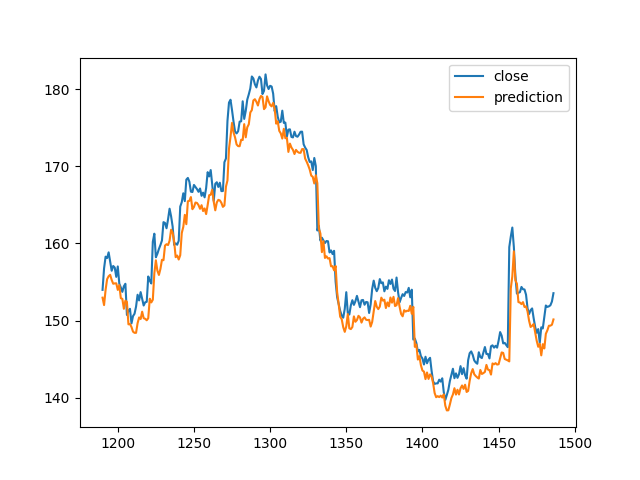
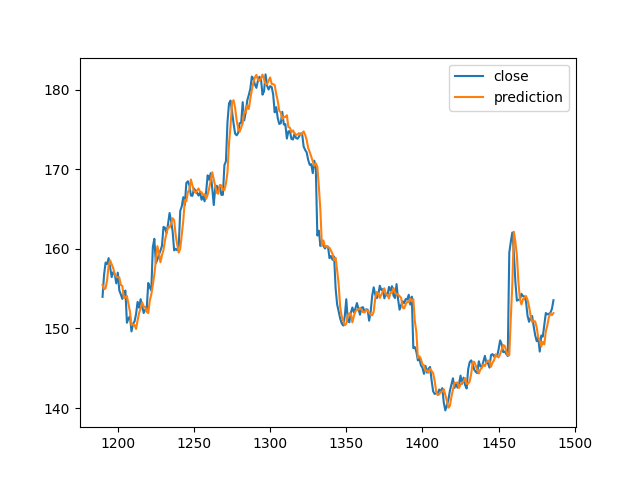
final update

diff --git a/main.py b/main.py
@@ -16,36 +16,70 @@ if __name__ == '__main__':
     parser.add_argument('--output',
                         default='output.csv',
                         help='output file name')
+    parser.add_argument('--model',
+                        default='rnn',
+                        help='choose model')                    
     args = parser.parse_args()
 
     # load training data
     df = pd.read_csv(args.training,names=["open", "high", "low", "close"])
-    # df["close"].plot()
-    # plt.savefig('training.png')
-    # print(df["close"])
 
+    # prepare training and testing data
     X_train, y_train , X_test, sc = utils.ts_train_test(df,5,1)
-    my_rnn_model, rnn_predictions = model.simple_rnn_model(X_train, y_train, X_test,sc)
 
-    utils.actual_pred_plot(df,rnn_predictions)
+    if (args.model == "rnn"):
+        # rnn training
+        my_model, rnn_predictions = model.simple_rnn_model(X_train, y_train, X_test,sc)
+        utils.actual_pred_plot(df,rnn_predictions)
+    elif(args.model == "lstm"):
+        # LSTM training
+        my_model, LSTM_predictions = model.LSTM_model(X_train, y_train, X_test, sc)
+        utils.actual_pred_plot(df,LSTM_predictions)
 
     # load test data
     df_test = pd.read_csv(args.testing,names=["open", "high", "low", "close"])
     df_test = df_test['close']
 
     action = []
-    flag = 0
-    for i in range(1,len(df_test)):
-        if (df_test.iloc[i] < df_test.iloc[i-1] and flag == 1):
-            action.append(-1)
-            flag = 0
-        elif (df_test.iloc[i] == df_test.iloc[i-1]):
-            action.append(0)
-        elif (df_test.iloc[i] > df_test.iloc[i-1] and flag == 0):
-            action.append(1)
-            flag = 1
+    stock = 0
+    for i in range(0,len(df_test)-1):
+        if (i >= 4):
+            # make prediction for pass 5 days
+            final_test = df_test.iloc[i-4:i+1]
+            final_test = utils.iterator_test(final_test,sc)
+            final_predictions = my_model.predict(final_test)
+            final_predictions = sc.inverse_transform(final_predictions)
+            tomorrow = float(final_predictions)
         else:
+            tomorrow = df_test[:i+1].mean()
+        today = df_test.iloc[i]
+        print('day: ',i+1)
+        print('today',today)
+        print('tomorrow',tomorrow)
+
+        # sell
+        if (today > tomorrow ):
+            if stock == 0:
+                action.append(-1)
+                stock -= 1
+            elif stock == 1:
+                action.append(-1)
+                stock -= 1
+            elif stock == -1:
+                action.append(0)
+        # hold
+        elif (today == tomorrow ):
             action.append(0)
+        # buy
+        else:
+            if stock == 0:
+                action.append(1)
+                stock += 1
+            elif stock == 1:
+                action.append(0)
+            elif stock == -1:
+                action.append(1)
+                stock += 1
 
     output = pd.DataFrame(action)
     output.to_csv("output.csv",index=False,header=None)

diff --git a/model.py b/model.py
@@ -1,6 +1,6 @@
 from keras.models import Sequential
-from keras.layers import Dense, SimpleRNN
-from sklearn.preprocessing import MinMaxScaler
+from keras.layers import Dense, SimpleRNN, GRU, LSTM
+from keras.optimizers import gradient_descent_v2
 
 def simple_rnn_model(X_train, y_train, X_test, sc):
     '''
@@ -15,7 +15,7 @@ def simple_rnn_model(X_train, y_train, X_test, sc):
     my_rnn_model.add(SimpleRNN(32))
     my_rnn_model.add(Dense(1)) # The time step of the output
 
-    my_rnn_model.compile(optimizer='rmsprop', loss='mean_squared_error')
+    my_rnn_model.compile(optimizer='adam', loss='mean_squared_error')
 
     # fit the RNN model
     my_rnn_model.fit(X_train, y_train, epochs=100, batch_size=150, verbose=0)
@@ -25,3 +25,23 @@ def simple_rnn_model(X_train, y_train, X_test, sc):
     rnn_predictions = sc.inverse_transform(rnn_predictions)
 
     return my_rnn_model, rnn_predictions
+
+def LSTM_model(X_train, y_train, X_test, sc):
+    # create a model
+    # The LSTM architecture
+    my_LSTM_model = Sequential()
+    my_LSTM_model.add(LSTM(units=50, return_sequences=True, input_shape=(X_train.shape[1],1), activation='tanh'))
+    #my_LSTM_model.add(LSTM(units=50, return_sequences=True, input_shape=(X_train.shape[1],1), activation='tanh'))
+    #my_LSTM_model.add(LSTM(units=50, return_sequences=True, input_shape=(X_train.shape[1],1), activation='tanh'))
+    my_LSTM_model.add(LSTM(units=50, activation='tanh'))
+    my_LSTM_model.add(Dense(units=1))
+
+    # Compiling
+    my_LSTM_model.compile(optimizer=gradient_descent_v2.SGD(lr=0.01, decay=1e-7, momentum=0.9, nesterov=False),loss='mean_squared_error')
+    # Fitting to the training set
+    my_LSTM_model.fit(X_train,y_train,epochs=50,batch_size=150, verbose=0)
+
+    LSTM_prediction = my_LSTM_model.predict(X_test)
+    LSTM_prediction = sc.inverse_transform(LSTM_prediction)
+
+    return my_LSTM_model, LSTM_prediction

diff --git a/utils.py b/utils.py
@@ -52,6 +52,24 @@ def ts_train_test(all_data,time_steps,for_periods):
 
     return X_train, y_train , X_test, sc
 
+def iterator_test(all_data,sc):
+    time_steps = 5
+    for_periods = 1
+
+    inputs = pd.DataFrame(all_data).values
+    inputs = inputs[len(inputs)-len(all_data):]
+    inputs = inputs.reshape(-1,1)
+    inputs  = sc.transform(inputs)
+
+    # Preparing X_test
+    X_test = []
+    X_test.append(inputs)
+
+    X_test = np.array(X_test)
+    X_test = np.reshape(X_test, (X_test.shape[0],X_test.shape[1],1))
+
+    return X_test
+
 def actual_pred_plot(all_data,preds):
     actual_pred = pd.DataFrame(columns = ['close', 'prediction'])
     ts_train, ts_test = train_test_split(all_data,test_size=0.2, shuffle=False)
